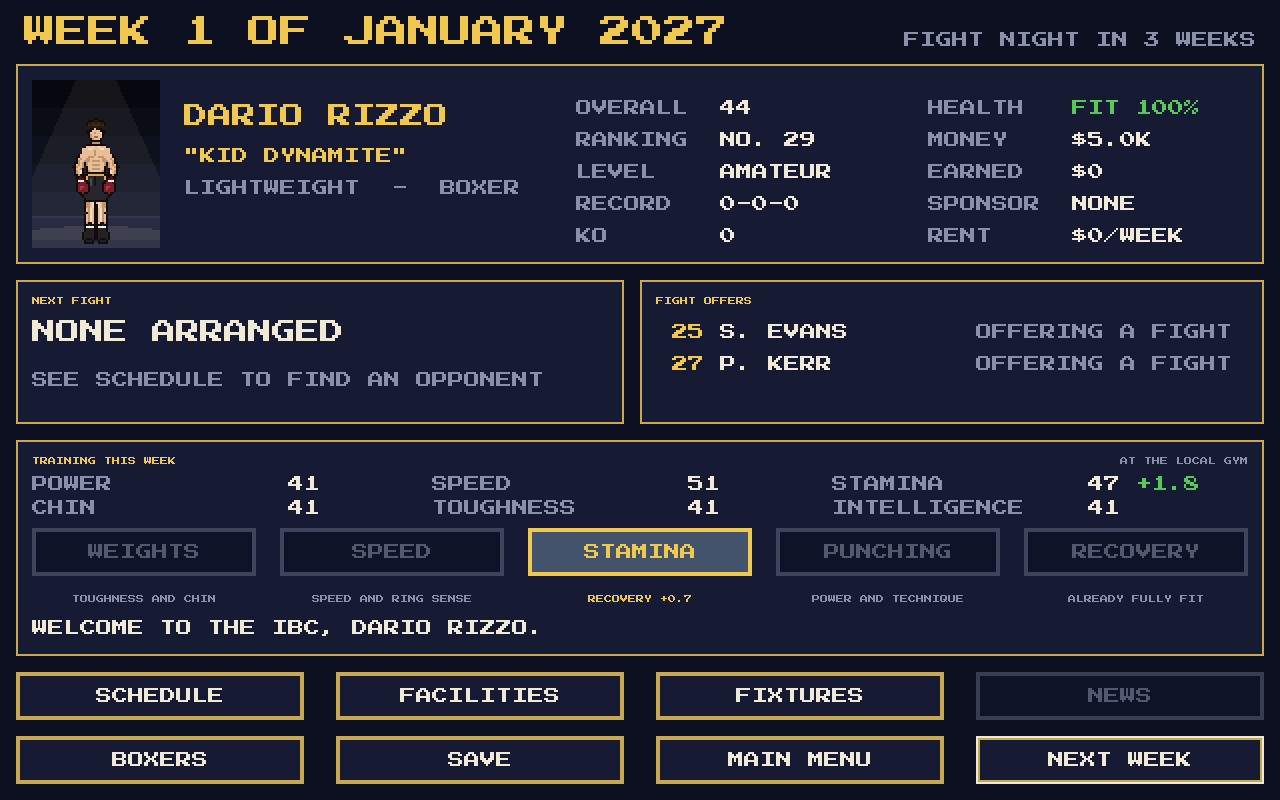
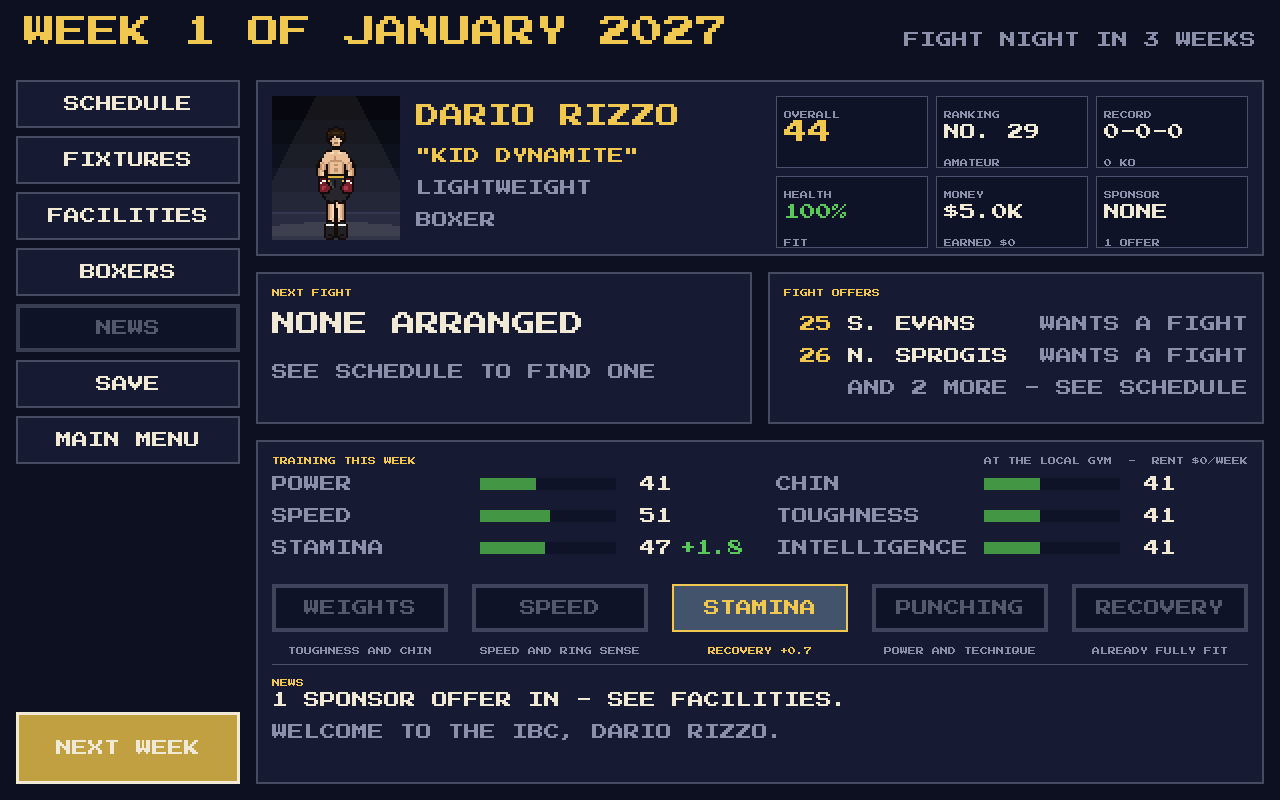
0.1.56: The career page redesigned - menu column, tiles, skill bars
Claude-Session: https://claude.ai/code/session_01PF6KKrB4uHprcLjw7ppdzy

Changed region(s): [[0.0, 0.0938, 1.0, 1.0], [0.5625, 0.5, 0.625, 0.5312], [0.8125, 0.5625, 0.8438, 0.5938]]

diff --git a/README.md b/README.md
@@ -523,11 +523,16 @@ or DELETE it (after an are-you-sure).
 
 **The career page** has the date across the top in large letters (WEEK 2
 OF JANUARY 2027, with the weeks to fight night on the right, or FIGHT
-NIGHT in the month's last week), then the boxer and his overall rating,
-ranking, level, record, health, money, earnings, sponsor and the week's
-rent, his next fight, the men offering him a fight, his six skills (with
-what this week's training added in green), and the latest news. Time moves
-a **week** at a time (NEXT WEEK), four weeks to a month:
+NIGHT in the month's last week) and the menu down the left (SCHEDULE,
+FIXTURES, FACILITIES, BOXERS, NEWS, SAVE, MAIN MENU, and NEXT WEEK in gold
+at the foot). Beside them: the boxer (his portrait, name, nickname,
+division and style, and six tiles - OVERALL, RANKING with his level,
+RECORD with his knockouts, HEALTH, MONEY with what he has earned, and
+SPONSOR), his next fight, the men offering him a fight, and this week's
+training: his six skills as bars (with what this week's session added in
+green), the five sessions, his gym and rent, and the latest three lines
+of news. Time moves a **week** at a time (NEXT WEEK), four weeks to a
+month:
 
 * **Training**: once a week choose WEIGHTS (toughness, some chin), SPEED
   (speed, some ring sense), STAMINA (stamina, some recovery), PUNCHING

diff --git a/CHANGELOG.md b/CHANGELOG.md
@@ -4,6 +4,17 @@ Every build bumps the last number of the version while the game is a
 prototype. The version lives in `project.godot` (`application/config/version`)
 and is shown on the main menu.
 
+## 0.1.56
+
+* The career page, redesigned to look cleaner and more modern: the menu
+  is a column of quiet buttons down the left, with NEXT WEEK (or FIGHT
+  NIGHT) as a gold button at its foot; the boxer's panel has his portrait
+  and name with six tiles (OVERALL, RANKING and his level, RECORD and his
+  knockouts, HEALTH, MONEY and his earnings, SPONSOR and any offers); his
+  skills are bars with this week's gains; the training panel shows his gym
+  and rent and the latest three lines of news (was one); and the panels
+  have quiet borders, gold kept for what matters.
+
 ## 0.1.55
 
 * The Fixtures screen is now a fight-night board: a column for each
